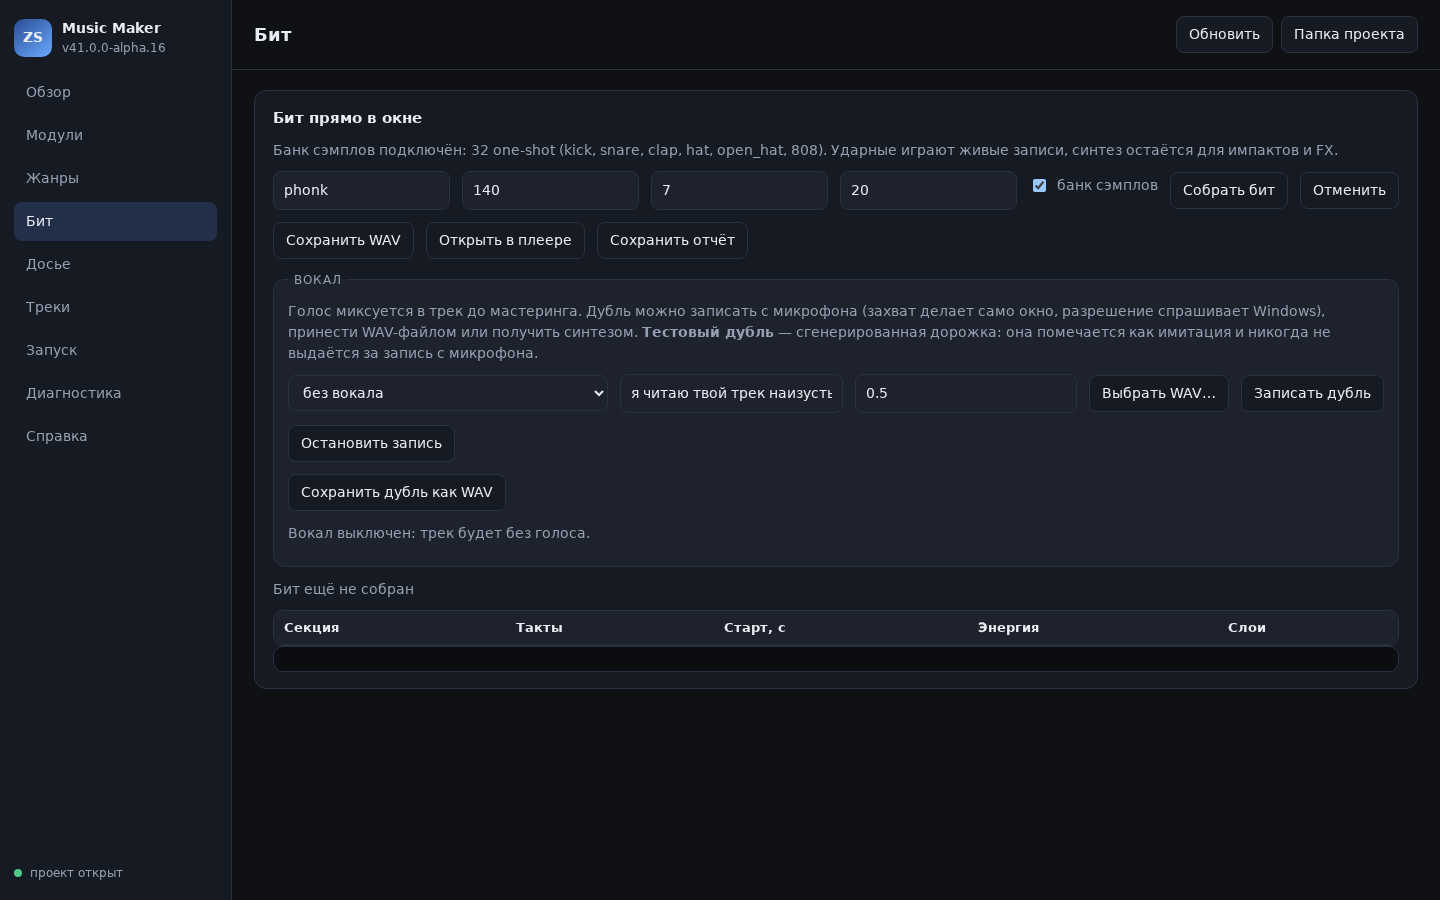
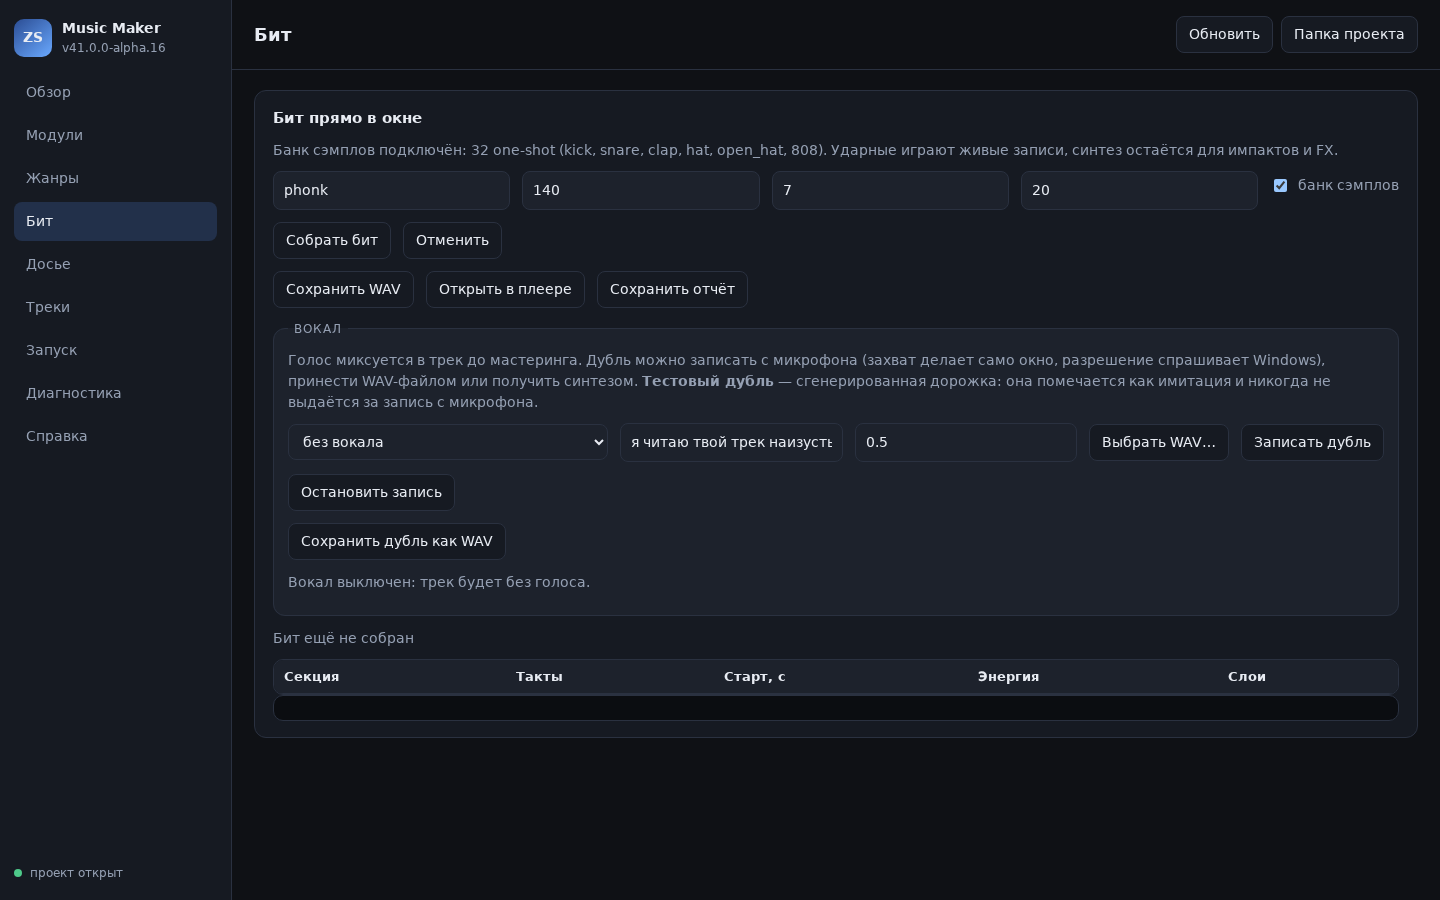
Узкое окно: поля не сжимаются до обрыва подсказок
На 1024 CSS-пикселя (ноутбук 1280×800 при масштабе 125 %) третье поле в
ряду сжималось так, что подсказка «ссылка (необязательно)» рвалась на
середине слова. Поле теперь не уже 220px — лучше перенести на следующую
строку, чем потерять смысл подписи.

Прогон окна проверяет это числами: шаг «на 1024 пикселях нет
горизонтальной прокрутки» обходит шесть разделов и смотрит scrollWidth
против clientWidth плюс элементы шире окна. Скриншоты пересняты, те же
415 тестов.

diff --git a/desktop/scripts/window-e2e.js b/desktop/scripts/window-e2e.js
@@ -285,7 +285,34 @@ async function main() {
       `карточек ${genresEmpty}, подпись «${genresCount.slice(0, 60)}»`,
     );
 
-    // --- 7. Задача без Python: живой вывод и итог
+    // --- 7. Маленький экран: ноутбук 1280×800 при масштабе 125 % даёт около
+    // 1024 CSS-пикселей. Горизонтальная прокрутка и обрезанный текст — то, что
+    // видно только человеку, поэтому проверяем числами.
+    await page.setViewport({ width: 1024, height: 700 });
+    await new Promise((resolve) => { setTimeout(resolve, 600); });
+    const cramped = [];
+    for (const view of ['overview', 'beat', 'dossiers', 'tracks', 'run', 'health']) {
+      await page.click(`[data-view="${view}"]`);
+      await new Promise((resolve) => { setTimeout(resolve, 500); });
+      const box = await page.evaluate(() => {
+        const root = document.documentElement;
+        const wide = [...document.querySelectorAll('.view:not(.is-hidden) *')]
+          .filter((node) => node.getBoundingClientRect().width > root.clientWidth + 1)
+          .map((node) => `${node.tagName.toLowerCase()}${node.id ? `#${node.id}` : ''}`)
+          .slice(0, 3);
+        return { overflow: root.scrollWidth - root.clientWidth, wide };
+      });
+      if (box.overflow > 1 || box.wide.length) cramped.push(`${view}: прокрутка ${box.overflow}px, ${box.wide.join(', ')}`);
+    }
+    record(
+      'на 1024 пикселях нет горизонтальной прокрутки',
+      cramped.length === 0,
+      cramped.length ? cramped.join('; ') : 'все разделы укладываются по ширине',
+    );
+    await page.setViewport({ width: 1440, height: 1000 });
+    await new Promise((resolve) => { setTimeout(resolve, 400); });
+
+    // --- 8. Задача без Python: живой вывод и итог
     await page.click('[data-view="run"]');
     await new Promise((resolve) => { setTimeout(resolve, 800); });
     await page.select('#task-select', 'native-files');

diff --git a/desktop/src/styles.css b/desktop/src/styles.css
@@ -379,8 +379,17 @@ input {
 }
 
 .row > input {
-  flex: 1 1 140px;
-  min-width: 120px;
+  /* Поле не уже 220px: иначе подсказка рвётся на середине слова и человек не
+     понимает, что сюда вводят. Лучше перенести поле на следующую строку. */
+  flex: 1 1 220px;
+  min-width: 150px;
+}
+
+/* Многострочное поле тянется на всю строку: в узком окне рядом с ним нечего
+   ставить, а половина ширины заставляла прокручивать текст внутри. */
+.row > textarea {
+  flex: 1 1 100%;
+  min-width: 0;
 }
 
 /* Флажок с подписью — одна строка, а не два блока друг под другом. */
